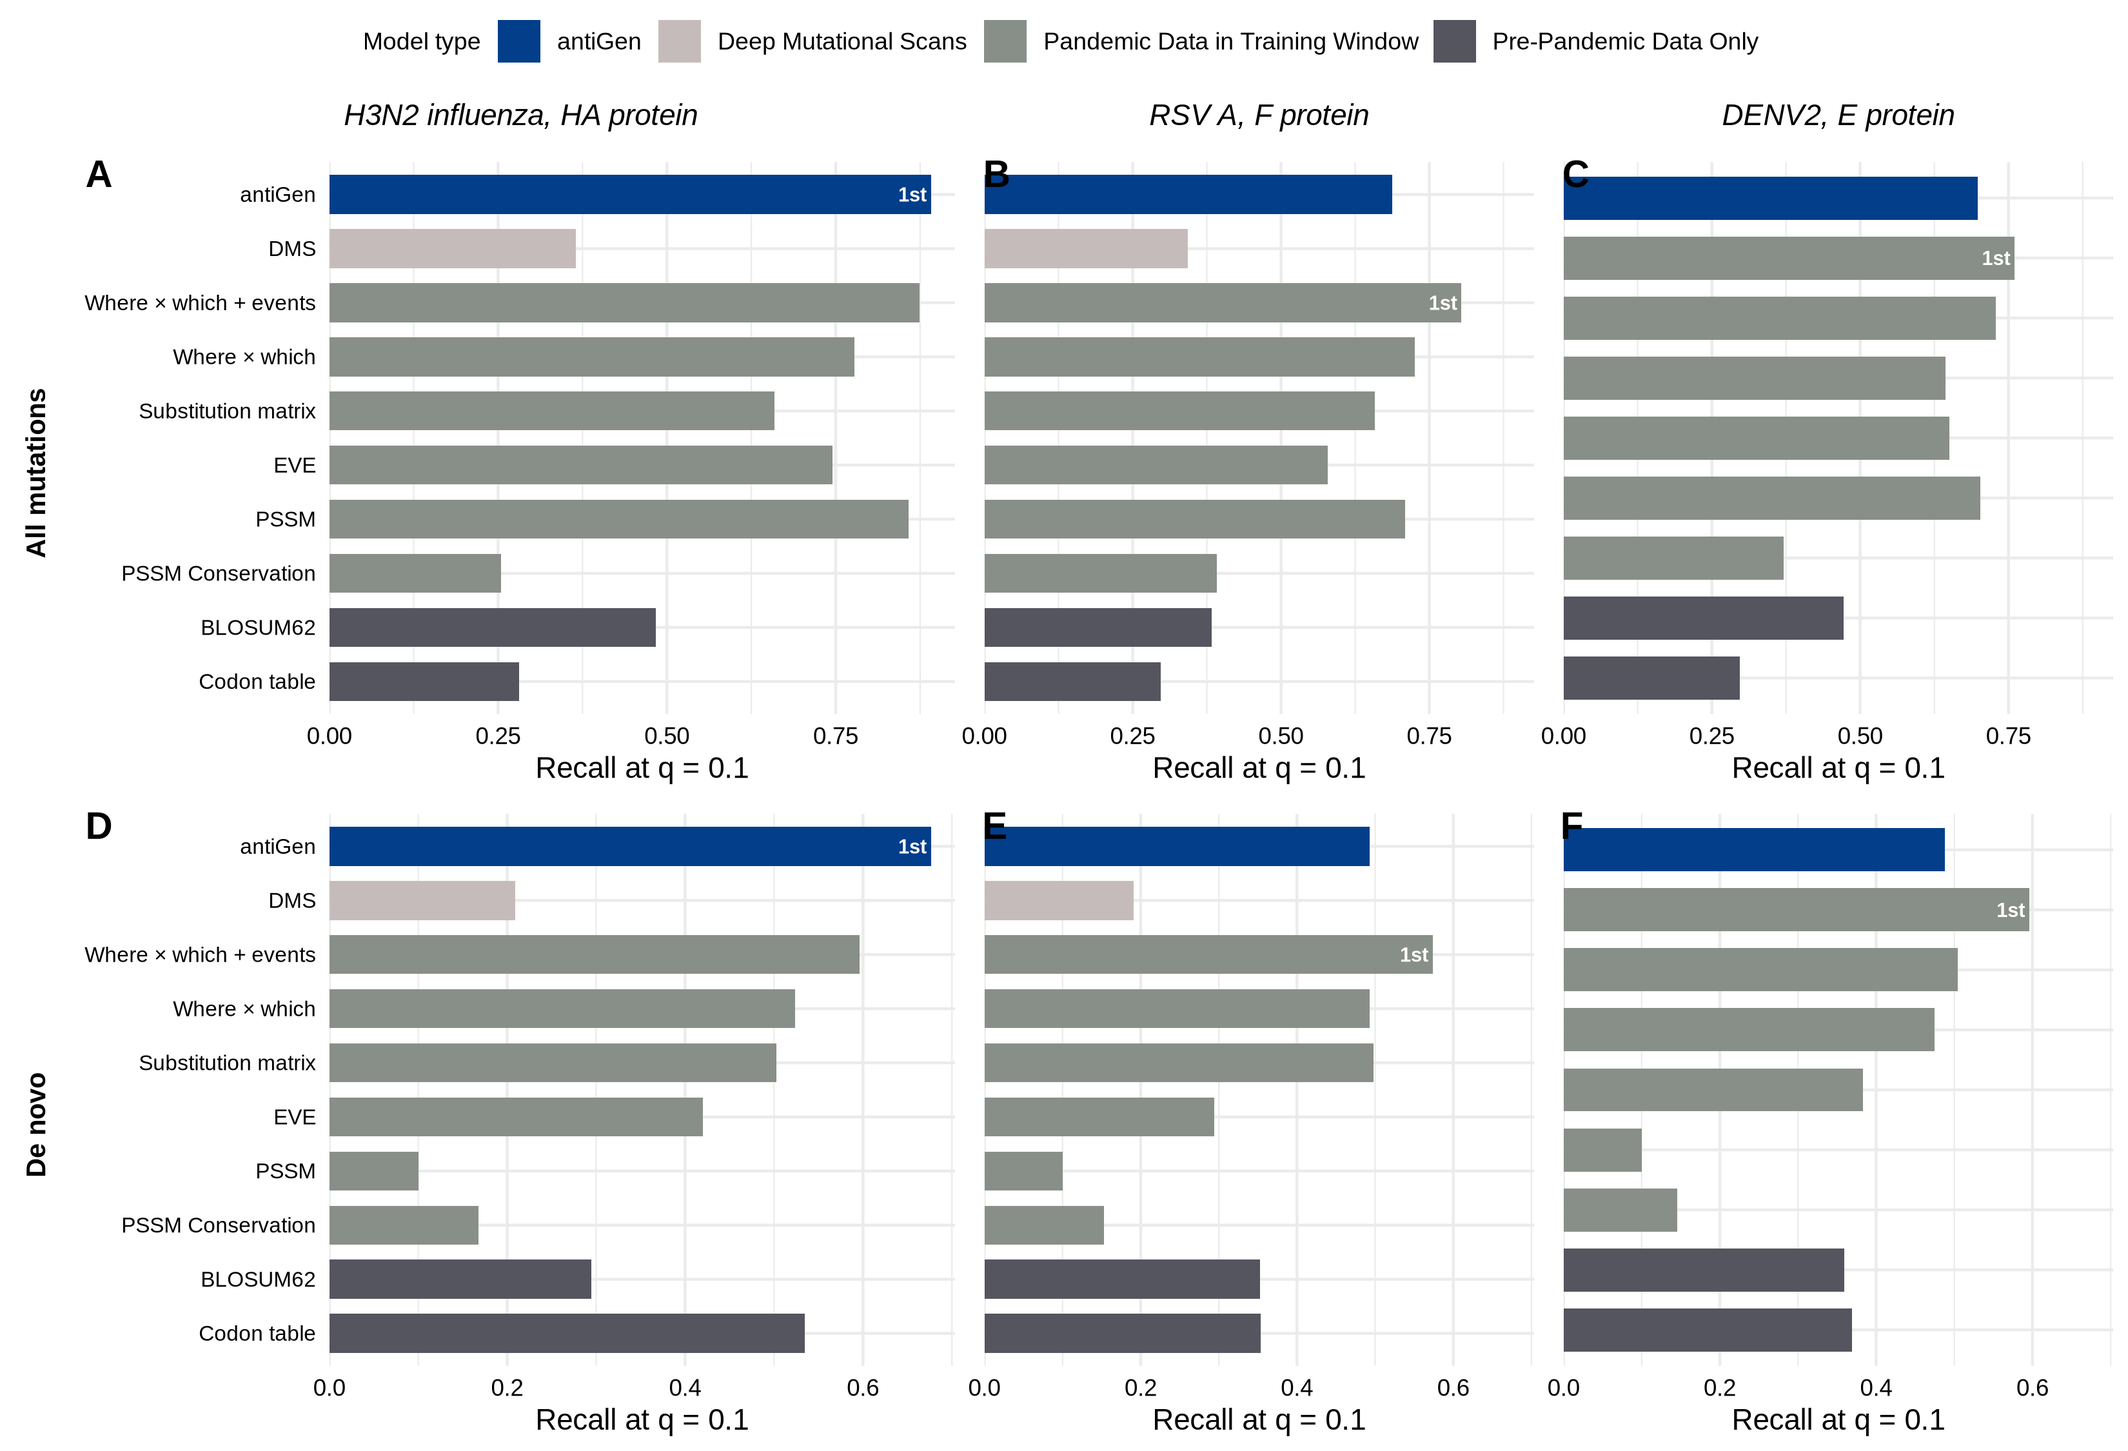
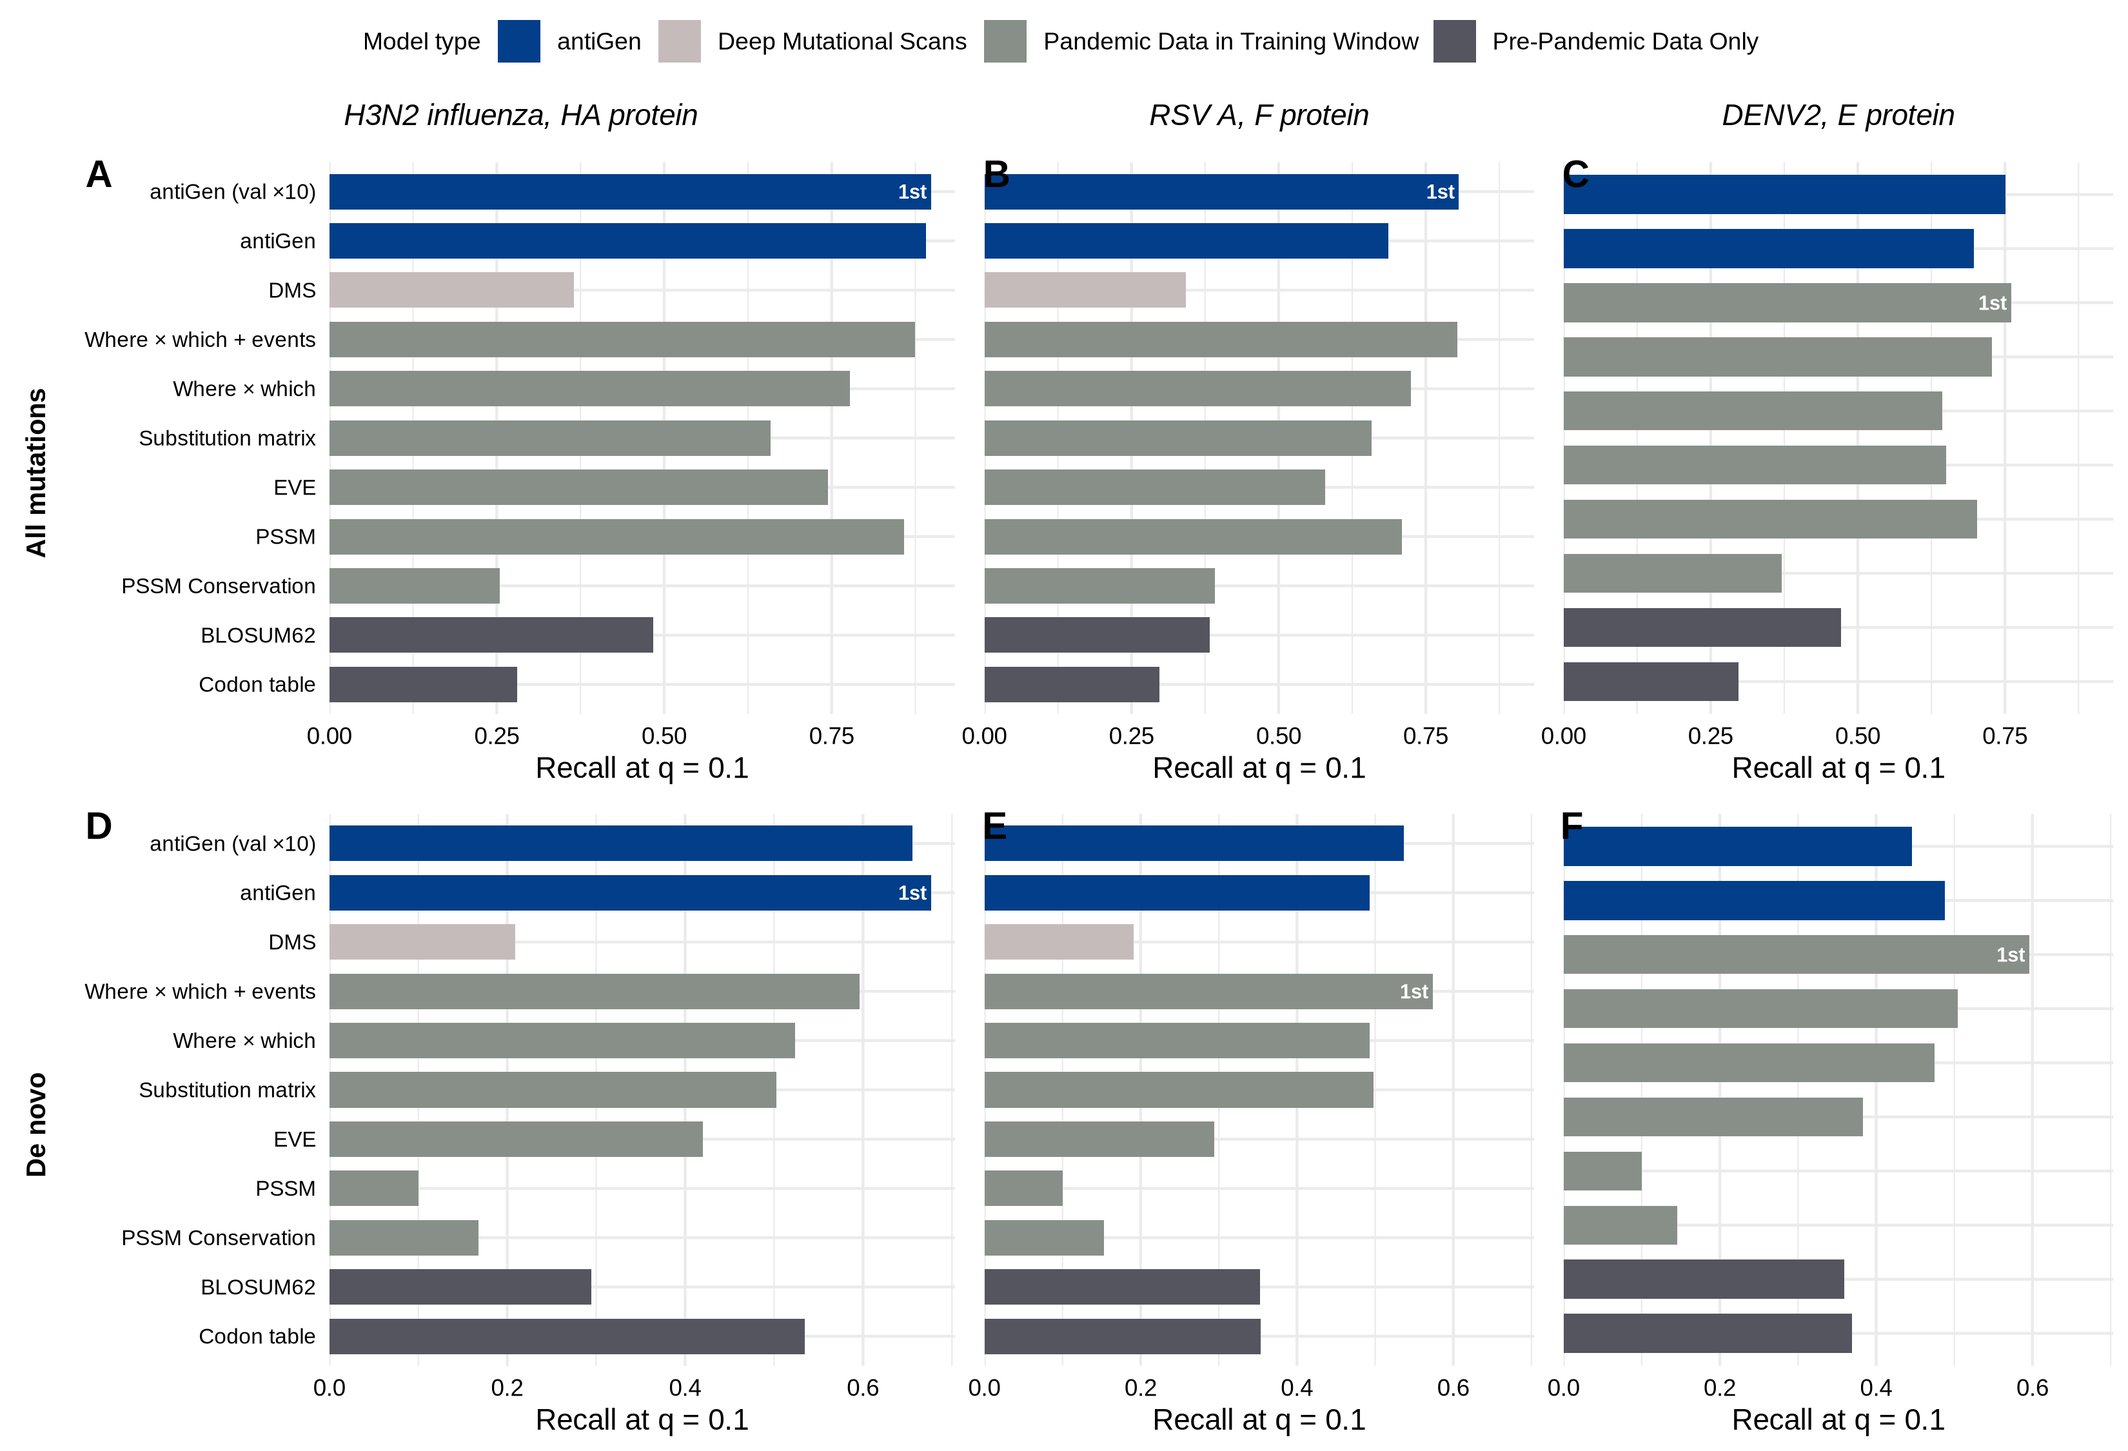
Endemic: add the antiGen (val x10) bar, scored as a model
The SC2 val-selected bar comes from ensemble_report.py, whose substrates
are backbone and list -- it lives on the coguk mutation-list panels. This
figure reads eval's test-set hit-rate CSVs, which neither covers, so that
recipe does not transfer.

MeanLogProbEnsemble is an nn.Module holding the N members that returns the
mean of their per-query log-softmax, registered in builtin_models and so
scored through the same masks, candidate pool and quantile machinery as
every other rung -- no map dump, no metric reimplemented.

It is the same rule because the normalisations compose: compute_probs
softmaxes over the flattened per-query cells, the axis ensemble_rules
log-softmaxes over, and softmax of the mean-of-log-softmax is strictly
increasing in it. Hit rates read within-query ranks only. The two
preconditions -- full eval range, no abstaining member -- are checked in
eval.py rather than assumed.

Gated by test_one_member_is_a_no_op plus a test that the mean is taken in
log space, whose discriminating case had to be chosen deliberately.
Suite 246 -> 250.

Val-selection is worth a lot on all mutations for the small corpora
(rsv-a 0.687 -> 0.806, denv2 0.698 -> 0.751) but is WORSE than base on de
novo for two of three. Where x which + events still takes four of six
panels; rsv-a all-mutations is 0.806 vs 0.804, a tie.

diff --git a/antiGen/eval.py b/antiGen/eval.py
@@ -40,6 +40,7 @@ from antiGen.eval_utils import (fit_substitution_baseline,
                                 positional_marginal_counts,
                                 where_times_which_dirichlet,
                                 WhereTimesWhichPredictor,
+                                MeanLogProbEnsemble,
     RBD_RANGE,
     evaluate_full,
     variant_hit_rates,
@@ -379,6 +380,18 @@ def parse_args():
     parser.add_argument('--priority-models', type=str, default=None,
                         help='Comma-separated label substrings to evaluate FIRST (before the '
                              'other models). Baselines are always computed first regardless.')
+    parser.add_argument('--ensemble-dir', type=str, default=None, metavar='DIR',
+                        help="Score the checkpoints in DIR as ONE rung: the mean of "
+                             "their per-query log-probabilities, which is the "
+                             "published 'Mean of log-probs' rule (ensemble_rules' "
+                             "logsoftmax/arith). Intended for the val-selected runs, "
+                             "whose claim is about their mean -- scoring them as N "
+                             "separate rungs would put N readings of one predictor on "
+                             "the panel. Valid where the eval range is the whole "
+                             "protein and no member abstains; see "
+                             "MeanLogProbEnsemble.")
+    parser.add_argument('--ensemble-name', type=str, default='antigen_valsel',
+                        help='Row name for --ensemble-dir.')
     parser.add_argument('--baseline-dir', type=str, default=None,
                         help='Override the per-dataset baseline CSV directory. The '
                              'default is data/baselines_<dataset>/, whose CSVs carry '
@@ -1114,6 +1127,41 @@ def main():
                           "substitution": _substitution,
                           "where_times_which": _where_times_which,
                           "wxw_dirichlet": _wxw_dirichlet}
+    # The val-selected runs as ONE rung. Registered beside the factored baselines
+    # because `builtin_models` is the hook for "a model the eval builds rather than
+    # loads", and that is exactly what an ensemble is -- it then goes through the same
+    # masks, candidate pool and quantile machinery as every other rung.
+    if args.ensemble_dir:
+        ens_paths = sorted(glob.glob(os.path.join(args.ensemble_dir, "fitness_*.pt")))
+        if not ens_paths:
+            raise SystemExit(f"--ensemble-dir {args.ensemble_dir} has no fitness_*.pt")
+        # The composition argument in MeanLogProbEnsemble holds only when the eval
+        # range is the whole protein. Refuse rather than quietly rank on a different
+        # normalisation than the one the rule names.
+        if len(eval_range) != seq_len:
+            raise SystemExit(
+                f"--ensemble-dir needs the full eval range (have {len(eval_range)} of "
+                f"{seq_len} positions): the mean-of-log-probs rule normalises over the "
+                "scored cells, and this module normalises over the sequence.")
+
+        def _ensemble():
+            mems = []
+            for ep in ens_paths:
+                eck, ecfg = load_checkpoint(ep, map_location=device)
+                if ecfg.seq_len != seq_len:
+                    raise SystemExit(f"{os.path.basename(ep)}: seq_len {ecfg.seq_len} "
+                                     f"!= data seq_len {seq_len}")
+                em = create_model(ecfg, device)
+                em.load_state_dict(eck['model_state_dict'], strict=False)
+                em.eval()
+                mems.append(em)
+            return MeanLogProbEnsemble(mems).to(device)
+
+        builtin_models[args.ensemble_name] = _ensemble
+        candidates.append((args.ensemble_name, None, None))
+        print(f"  ensemble rung '{args.ensemble_name}': {len(ens_paths)} member(s) "
+              f"from {args.ensemble_dir}")
+
         for name in builtin_models:
             candidates.append((name, None, None))
         print(f"  added {len(builtin_models)} factored baselines: "

diff --git a/antiGen/tests/test_mean_logprob_ensemble.py b/antiGen/tests/test_mean_logprob_ensemble.py
@@ -1,0 +1,88 @@
+"""The val-selected bar: N checkpoints as the mean of their per-query log-probs.
+
+The rule is `ensemble_rules`' ``logsoftmax`` / ``arith``, expressed as a MODEL so the
+eval scores it through the same masks, candidate pool and quantile machinery as every
+other rung. What has to hold for that to be the same rule:
+
+1. a ONE-member ensemble cannot change any rank (the repo's standard ensemble gate), and
+2. the mean really is taken in LOG space, not probability space -- the two differ, and
+   only one of them is the published rule.
+"""
+import torch
+
+from antiGen.eval_utils import MeanLogProbEnsemble, compute_probs
+
+
+class Toy(torch.nn.Module):
+    """A stand-in model: fixed logits per query, independent of the input values."""
+
+    def __init__(self, logits):
+        super().__init__()
+        self.register_buffer("logits", logits)
+
+    def forward(self, aa_batch):
+        return self.logits[: aa_batch.shape[0]]
+
+
+def _ranks(x):
+    """Within-query ranking of the flattened cells."""
+    return torch.argsort(torch.argsort(x.flatten(1), dim=1), dim=1)
+
+
+def test_one_member_is_a_no_op():
+    torch.manual_seed(0)
+    lg = torch.randn(4, 7, 5)
+    ens = MeanLogProbEnsemble([Toy(lg)])
+    aa = torch.zeros(4, 7, dtype=torch.long)
+    assert torch.equal(_ranks(ens(aa)), _ranks(lg)), (
+        "a one-member ensemble reordered its own member's cells")
+
+
+def test_composition_with_compute_probs_preserves_the_ranking():
+    """`compute_probs` softmaxes over the same flattened axis, so ranks survive it.
+
+    This is the step that lets the ensemble be a model at all: the eval re-normalises
+    whatever a model returns, and that re-normalisation must not undo the rule.
+    """
+    torch.manual_seed(1)
+    lg = torch.randn(3, 6, 4)
+    ens = MeanLogProbEnsemble([Toy(lg)])
+    aa = torch.full((3, 6), 3, dtype=torch.long)       # a wild-type outside 0..2
+    tgt = torch.zeros(3, 6, 4)
+    out = ens(aa)
+    probs = compute_probs(out, tgt, aa)
+    # Compare only the non-wild-type cells, which are the ones compute_probs keeps.
+    keep = torch.ones_like(probs, dtype=torch.bool)
+    keep.scatter_(2, aa.unsqueeze(-1), False)
+    a = torch.where(keep, out, torch.full_like(out, -1e9))
+    b = torch.where(keep, probs, torch.full_like(probs, -1.0))
+    assert torch.equal(_ranks(a), _ranks(b)), (
+        "compute_probs' per-query softmax changed the ensemble's ranking")
+
+
+def test_the_mean_is_taken_in_log_space():
+    """Mean-of-log-probs, not mean-of-probs: on two disagreeing members they differ."""
+    # Cell 0 is member A's top call and is all but vetoed by member B. In log space
+    # the veto drags it below cell 1; averaging probabilities, A's near-certainty
+    # survives the average and cell 0 stays on top. That disagreement is the point.
+    a = torch.tensor([[[10.0, 1.0, 0.0, 0.0]]])
+    b = torch.tensor([[[-10.0, 1.0, 0.0, 0.0]]])
+    ens = MeanLogProbEnsemble([Toy(a), Toy(b)])
+    aa = torch.full((1, 1), 3, dtype=torch.long)
+    got = ens(aa)
+
+    la = torch.log_softmax(a.flatten(1), dim=1)
+    lb = torch.log_softmax(b.flatten(1), dim=1)
+    assert torch.allclose(got.flatten(1), (la + lb) / 2, atol=1e-6)
+
+    mean_of_probs = (la.exp() + lb.exp()) / 2
+    assert not torch.equal(_ranks(got), _ranks(mean_of_probs.reshape(got.shape))), (
+        "this pair was chosen because the two means rank differently; if they now "
+        "agree the test has stopped discriminating and needs new numbers")
+
+
+def test_members_are_registered_so_device_moves_apply():
+    """A plain list would leave members on the CPU when the ensemble is .to(device)."""
+    ens = MeanLogProbEnsemble([Toy(torch.zeros(1, 2, 3)), Toy(torch.zeros(1, 2, 3))])
+    assert len(list(ens.children())) == 1 and len(ens.members) == 2
+    assert any(b.numel() for b in ens.buffers()), "member buffers are not registered"

diff --git a/antiGen/eval_utils.py b/antiGen/eval_utils.py
@@ -958,6 +958,49 @@ def build_model_gap_stop_mask(model, seq_len, E, gap_idx, stop_idx):
 
 # ── Baseline loading ────────────────────────────────────────────────────────────
 
+class MeanLogProbEnsemble(torch.nn.Module):
+    """N checkpoints combined as the mean of their per-query log-probabilities.
+
+    This is the published "Mean of log-probs" rule -- `ensemble_rules`'
+    ``logsoftmax`` / ``arith`` -- expressed as a MODEL rather than as an operation on
+    cached score maps, so the eval scores it through exactly the same masks, candidate
+    pool and quantile machinery as every other rung. The alternative, dumping each
+    member's map and recombining it, has to reproduce those three things by hand.
+
+    **The two normalisations compose, and that is what makes this faithful.**
+    `compute_probs` turns whatever a model returns into
+    ``softmax(logits.flatten(1), dim=1)`` -- per QUERY, over the flattened
+    (positions x residues) cells. This module returns the mean of each member's
+    ``log_softmax`` over that same flattened axis. Softmax of that mean is a strictly
+    increasing function of it, and the hit-rate metrics depend on within-query RANKS
+    alone, so the ranking the eval sees is the mean-of-log-probs ranking exactly.
+
+    **Two preconditions, true for the endemic arm and checked by the caller.** The
+    cached-map rule normalises over the EVAL RANGE; this normalises over the full
+    sequence, so the two agree only where the eval range is the whole protein -- which
+    it is for flu, rsv_a and denv2 (`eval.py`: ``eval_range = list(range(seq_len))``).
+    And ``union_min`` NaN handling is a no-op for members that never abstain, which
+    these -- one architecture, no coverage gaps -- do not.
+
+    A ONE-member ensemble is therefore a no-op on ranks, which is the gate:
+    ``test_one_member_is_a_no_op`` pins it.
+    """
+
+    def __init__(self, members):
+        super().__init__()
+        if not members:
+            raise ValueError("MeanLogProbEnsemble needs at least one member")
+        self.members = torch.nn.ModuleList(members)
+
+    def forward(self, aa_batch):
+        acc = None
+        for m in self.members:
+            lg = m(aa_batch).float()
+            ls = torch.log_softmax(lg.flatten(1), dim=1).reshape(lg.shape)
+            acc = ls if acc is None else acc + ls
+        return acc / len(self.members)
+
+
 def load_baselines(baseline_dir, allowed_aas, seed, pssm_root, global_wt_aa_idx):
     """Assemble the baseline score maps: pssm_root, pssm_root_position, and CSV baselines.
 

diff --git a/experiments/multitree/NOTES.md b/experiments/multitree/NOTES.md
@@ -11091,3 +11091,60 @@ C and F carry no DMS bar.
 
 * `antiGen-figures/figures/fig_endemic_revised.R` -- new.
 * `antiGen-figures/data/evals_endemic_revised/` -- the three evals' hit-rate CSVs.
+
+## 99. The val-selected bar, and what it does not rescue (2026-10-30)
+
+s98's antiGen bar was the flat 32-epoch base. The ten val-selected runs existed for all
+three viruses but were not on the figure. They are now.
+
+### Scored as a MODEL, not by recombining cached maps
+
+The SC2 `antiGen (val x10)` bar is produced by `ensemble_report.py`, whose substrates
+are `backbone` and `list` -- it lives on the coguk mutation-list panels. **This figure
+reads eval's test-set hit-rate CSVs, which neither substrate covers**, so the SC2
+recipe does not transfer and "just a scoring pass" was wrong.
+
+`MeanLogProbEnsemble` is the cheaper answer: an `nn.Module` holding the N members that
+returns the mean of their per-query log-softmax, registered in `builtin_models` and so
+scored through the same masks, candidate pool and quantile machinery as every other
+rung. No map dump, and nothing about the metric reimplemented.
+
+**Why it is the same rule.** `compute_probs` turns a model's output into
+`softmax(logits.flatten(1), dim=1)` -- per query, over the flattened (positions x
+residues) cells, which is the axis `ensemble_rules` log-softmaxes over. Softmax of the
+mean-of-log-softmax is strictly increasing in it, and the hit-rate metrics read
+within-query RANKS only, so the ranking is the mean-of-log-probs ranking exactly. Two
+preconditions, both checked in `eval.py` rather than assumed: the eval range must be
+the whole protein (it is, for flu/rsv_a/denv2), and `union_min` must be a no-op, which
+it is for members that never abstain.
+
+Gated by `test_one_member_is_a_no_op`, the repo's standard ensemble gate, plus a test
+that the mean really is taken in LOG space -- the discriminating case had to be chosen
+deliberately, since on agreeing members the two means rank alike. Suite 246 -> 250.
+
+### It helps on all mutations and does not help on de novo
+
+**Recall at q = 0.1:**
+
+| | h3n2 all | rsv-a all | denv2 all | h3n2 novo | rsv-a novo | denv2 novo |
+|---|---|---|---|---|---|---|
+| antiGen (val x10) | **0.898** | **0.806** | 0.751 | 0.655 | 0.537 | 0.446 |
+| antiGen (base) | 0.891 | 0.687 | 0.698 | **0.676** | 0.493 | 0.488 |
+| Where x which + events | 0.875 | 0.804 | **0.760** | **0.596** | **0.574** | **0.596** |
+
+On ALL MUTATIONS val-selection is worth a great deal on the two small corpora -- rsv-a
+0.687 -> 0.806, denv2 0.698 -> 0.751 -- which is what the s95 budget work was for. On
+DE NOVO it is **worse than base** on two of three (h3n2 0.676 -> 0.655, denv2 0.488 ->
+0.446). Selecting an epoch on held-out mutations does not select for the harder task.
+
+**The headline survives the better rung.** `wxw_dirichlet` still takes all three de
+novo panels and DENV2 on all mutations: four of six. rsv-a's all-mutations panel is
+0.806 vs 0.804, which is a tie and should not be reported as a win either way.
+
+### Code
+
+* `antiGen/eval_utils.py` -- `MeanLogProbEnsemble`.
+* `antiGen/eval.py` -- `--ensemble-dir` / `--ensemble-name`.
+* `antiGen/tests/test_mean_logprob_ensemble.py` -- new.
+* `experiments/multitree/submit_endemic_evals.sh` -- stages the members.
+* `antiGen-figures/figures/fig_endemic_revised.R` -- the bar.
